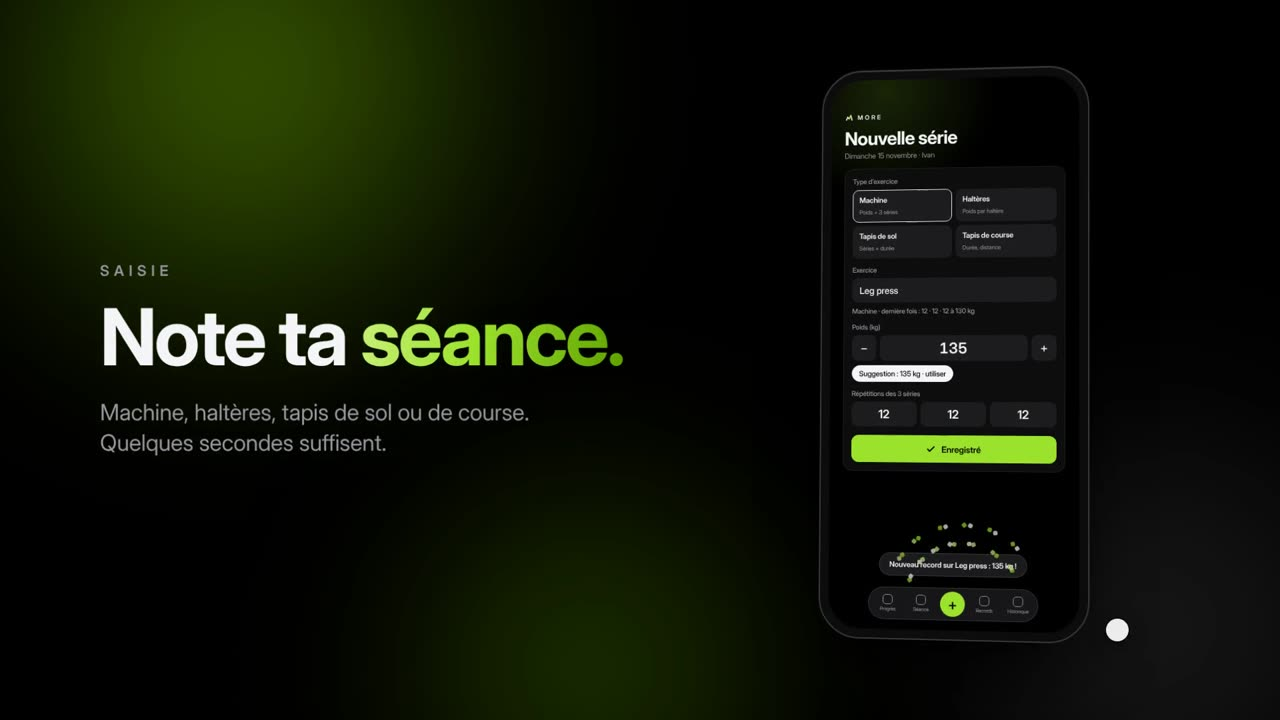
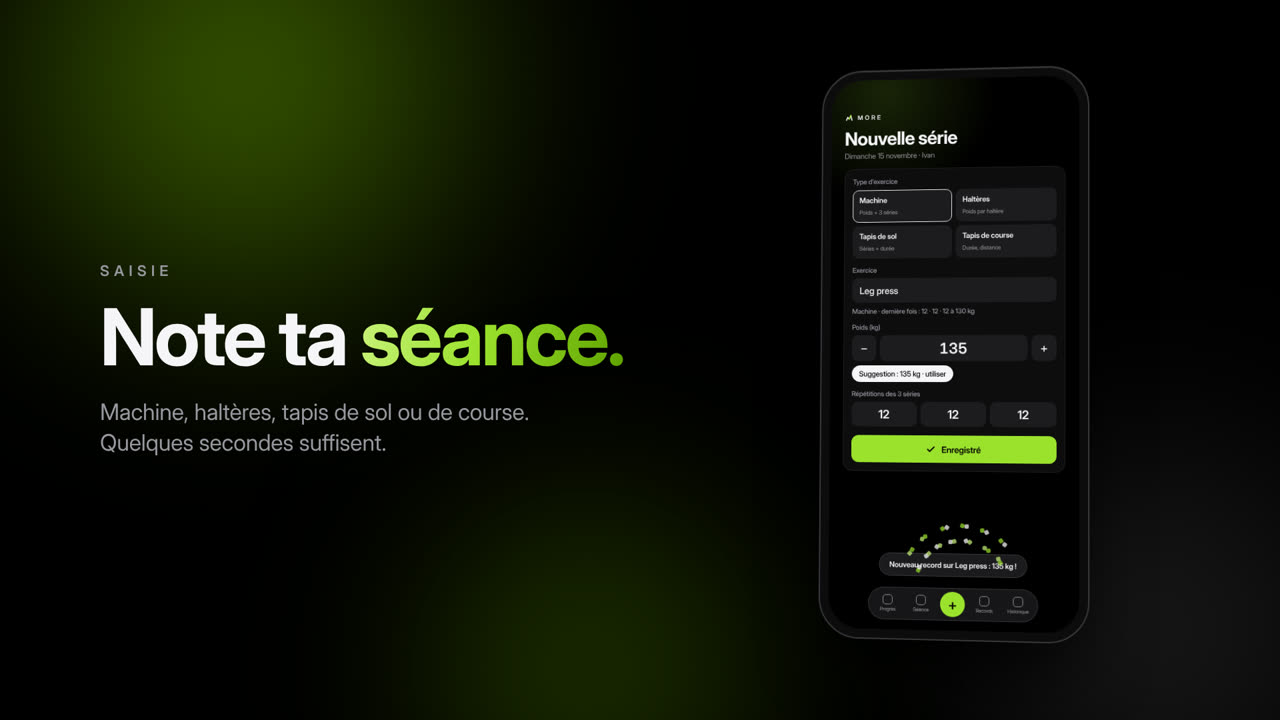
style(landing): barre flottante en verre, hero centré et animations au défilement

diff --git a/css/landing.css b/css/landing.css
@@ -1,4 +1,5 @@
-/* MORE : page de présentation. Mêmes jetons que l'app : noir, blanc, un seul accent vert. */
+/* MORE : page de présentation. Mêmes jetons que l'app : noir, blanc, un seul accent vert.
+   Le verre liquide est réservé à la barre flottante ; le contenu est posé directement sur le noir. */
 :root{
   --ink:#000; --surface:#0d0d0e; --surface-2:#1c1c1e;
   --line:rgba(255,255,255,.08); --line-2:rgba(255,255,255,.14);
@@ -6,79 +7,98 @@
   --font:-apple-system,BlinkMacSystemFont,"SF Pro Text","Helvetica Neue",Helvetica,Arial,sans-serif;
   --display:-apple-system,BlinkMacSystemFont,"SF Pro Display","Helvetica Neue",Helvetica,Arial,sans-serif;
   --spring:cubic-bezier(.22,1.2,.36,1);
+  --out:cubic-bezier(.16,1,.3,1);
   color-scheme:dark;
 }
 *{box-sizing:border-box}
 html{scroll-behavior:smooth}
 body{margin:0;background:var(--ink);color:var(--text);font-family:var(--font);font-size:17px;line-height:1.5;letter-spacing:-.01em;-webkit-font-smoothing:antialiased;overflow-x:hidden}
 a{color:inherit;text-decoration:none}
-:focus-visible{outline:2px solid var(--text);outline-offset:3px;border-radius:8px}
-.halo{position:fixed;inset:0;pointer-events:none;z-index:0;background:radial-gradient(70% 40% at 20% -8%,rgba(155,226,45,.14),transparent 65%)}
+:focus-visible{outline:2px solid var(--text);outline-offset:3px;border-radius:999px}
+.halo{position:fixed;inset:0;pointer-events:none;z-index:0;background:radial-gradient(60% 40% at 50% -10%,rgba(155,226,45,.16),transparent 65%)}
 main,.bar,.foot{position:relative;z-index:1}
 
-/* barre flottante : seul élément en verre */
-.bar{position:sticky;top:0;z-index:10;display:flex;align-items:center;justify-content:space-between;max-width:1120px;margin:0 auto;
-  padding:calc(env(safe-area-inset-top) + 12px) max(20px,env(safe-area-inset-right)) 12px max(20px,env(safe-area-inset-left))}
-.bar::before{content:"";position:absolute;inset:0;z-index:-1;background:rgba(0,0,0,.55);-webkit-backdrop-filter:blur(24px) saturate(180%);backdrop-filter:blur(24px) saturate(180%);border-bottom:1px solid var(--line)}
-.brand{display:flex;align-items:center;gap:10px;font-weight:600;font-size:14px;letter-spacing:.32em}
-.mark{width:22px;height:22px;fill:none;stroke:#fff;stroke-width:30;stroke-linecap:round;stroke-linejoin:round}
+/* barre flottante en verre liquide, détachée du haut */
+.bar{position:fixed;left:0;right:0;top:calc(env(safe-area-inset-top) + 14px);z-index:10;display:flex;justify-content:center;padding:0 16px;pointer-events:none}
+.pill{pointer-events:auto;display:flex;align-items:center;justify-content:space-between;gap:24px;width:100%;max-width:720px;
+  padding:7px 7px 7px 20px;border-radius:999px;
+  background:rgba(30,30,32,.55);-webkit-backdrop-filter:blur(30px) saturate(180%);backdrop-filter:blur(30px) saturate(180%);
+  border:1px solid var(--line-2);box-shadow:inset 0 1px 0 rgba(255,255,255,.12),0 20px 50px -20px rgba(0,0,0,.8);
+  transition:transform .6s var(--spring),max-width .6s var(--spring)}
+.bar.scrolled .pill{max-width:560px}
+.brand{display:flex;align-items:center;gap:10px;font-weight:600;font-size:13px;letter-spacing:.32em}
+.mark{width:20px;height:20px;fill:none;stroke:#fff;stroke-width:30;stroke-linecap:round;stroke-linejoin:round}
 .mark .g{stroke:var(--accent)}
 .mark.big{width:84px;height:84px}
 
 /* boutons */
-.btn{display:inline-flex;align-items:center;justify-content:center;min-height:52px;padding:0 26px;border-radius:999px;background:var(--text);color:var(--ink);font-weight:600;font-size:16px;transition:transform .35s var(--spring),opacity .2s}
-.btn:active{transform:scale(.97)}
-.btn-sm{min-height:40px;padding:0 18px;font-size:14.5px}
-.btn-ghost{background:transparent;color:var(--text);border:1px solid var(--line-2)}
+.btn{display:inline-flex;align-items:center;justify-content:center;min-height:52px;padding:0 28px;border-radius:999px;background:var(--text);color:var(--ink);font-weight:600;font-size:16px;transition:transform .35s var(--spring),background-color .2s}
+.btn:active{transform:scale(.96)}
+.btn-sm{min-height:38px;padding:0 18px;font-size:14px}
+.btn-ghost{background:rgba(255,255,255,.06);color:var(--text);border:1px solid var(--line-2)}
 .accent{color:var(--accent)}
 
-/* hero */
+/* hero centré */
 main{max-width:1120px;margin:0 auto;padding:0 max(20px,env(safe-area-inset-left))}
-.hero{padding:88px 0 56px;max-width:820px}
+.hero{display:flex;flex-direction:column;align-items:center;text-align:center;padding:180px 0 72px}
 .kicker{margin:0 0 18px;font-size:12px;font-weight:600;letter-spacing:.3em;color:var(--muted);text-transform:uppercase}
-h1{margin:0;font-family:var(--display);font-size:clamp(46px,9vw,96px);line-height:1;font-weight:700;letter-spacing:-.045em}
-.lead{margin:28px 0 0;max-width:560px;font-size:clamp(18px,2.2vw,21px);color:var(--muted)}
-.cta{display:flex;flex-wrap:wrap;gap:12px;margin-top:36px}
+h1{margin:0;font-family:var(--display);font-size:clamp(48px,9.5vw,112px);line-height:.98;font-weight:700;letter-spacing:-.05em}
+.lead{margin:28px auto 0;max-width:600px;font-size:clamp(18px,2.2vw,21px);color:var(--muted)}
+.cta{display:flex;flex-wrap:wrap;justify-content:center;gap:12px;margin-top:40px}
 
-/* vidéo : paysage sur grand écran, vertical sur téléphone */
-.video{padding:8px 0 40px}
-.frame{border-radius:28px;overflow:hidden;background:var(--surface);border:1px solid var(--line-2);box-shadow:0 40px 100px -40px rgba(155,226,45,.35)}
-.frame video{display:block;width:100%;height:auto;background:#000}
+/* vidéo : grandit en arrivant à l'écran (piloté par landing.js) */
+.video{padding:8px 0 80px}
+.frame{border-radius:32px;overflow:hidden;background:#000;box-shadow:0 60px 140px -50px rgba(155,226,45,.4),0 0 0 1px var(--line);
+  transform:scale(var(--vs,1));transform-origin:50% 0;will-change:transform}
+.frame video{display:block;width:100%;height:100%;background:#000}
 .frame.wide{aspect-ratio:16/9}
 .frame.tall{display:none;aspect-ratio:9/16;max-width:420px;margin:0 auto}
 @media (max-width:700px) and (orientation:portrait){ .frame.wide{display:none} .frame.tall{display:block} }
 
-/* fonctionnalités */
-.features{display:grid;gap:20px;padding:56px 0}
-.feat{display:grid;grid-template-columns:minmax(0,300px) 1fr;gap:48px;align-items:center;padding:36px;border-radius:28px;background:var(--surface);border:1px solid var(--line)}
-.feat:nth-child(even){grid-template-columns:1fr minmax(0,300px)}
-.feat:nth-child(even) img{order:2}
-.feat img{width:100%;height:auto;border-radius:22px;display:block}
-.feat h2{margin:0;font-family:var(--display);font-size:clamp(26px,3.4vw,38px);line-height:1.08;font-weight:700;letter-spacing:-.03em}
-.feat p:not(.kicker){margin:16px 0 0;color:var(--muted);max-width:460px}
+/* fonctionnalités : pas de cadres, le téléphone flotte sur le noir */
+.features{display:grid;gap:clamp(40px,8vw,120px);padding:40px 0 80px}
+.feat{display:grid;grid-template-columns:minmax(0,360px) minmax(0,440px);justify-content:center;gap:clamp(40px,8vw,120px);align-items:center}
+.feat:nth-child(even) .shot{order:2}
+.shot{position:relative}
+.shot::before{content:"";position:absolute;inset:18% 8% 8%;border-radius:50%;background:radial-gradient(closest-side,rgba(155,226,45,.22),transparent);filter:blur(30px);z-index:-1}
+.feat img{width:100%;height:auto;display:block;transform:translateY(var(--py,0px))}
+.feat h2{margin:0;font-family:var(--display);font-size:clamp(30px,3.8vw,46px);line-height:1.05;font-weight:700;letter-spacing:-.035em}
+.feat p:not(.kicker){margin:18px 0 0;color:var(--muted);font-size:18px}
 @media (max-width:760px){
-  .feat,.feat:nth-child(even){grid-template-columns:1fr;gap:28px;padding:24px}
-  .feat:nth-child(even) img{order:0}
-  .feat img{max-width:280px;margin:0 auto}
+  .feat{grid-template-columns:1fr;gap:20px;text-align:center}
+  .feat:nth-child(even) .shot{order:0}
+  .feat img{max-width:270px;margin:0 auto}
 }
 
-/* confidentialité */
-.privacy{display:flex;gap:22px;align-items:flex-start;padding:36px;border-radius:28px;border:1px solid var(--line);margin:8px 0 40px}
-.privacy svg{flex:none;width:30px;height:30px;fill:none;stroke:var(--accent);stroke-width:1.8;stroke-linecap:round;stroke-linejoin:round;margin-top:4px}
-.privacy h2{margin:0;font-size:22px;letter-spacing:-.02em}
-.privacy p{margin:8px 0 0;color:var(--muted);max-width:620px}
+/* confidentialité : simple ligne centrée */
+.privacy{display:flex;flex-direction:column;align-items:center;text-align:center;padding:40px 0 20px}
+.privacy svg{width:34px;height:34px;fill:none;stroke:var(--accent);stroke-width:1.8;stroke-linecap:round;stroke-linejoin:round;margin-bottom:18px}
+.privacy h2{margin:0;font-family:var(--display);font-size:clamp(28px,3.4vw,40px);letter-spacing:-.03em}
+.privacy p{margin:14px auto 0;color:var(--muted);max-width:560px;font-size:18px}
 
 /* fin */
-.end{display:flex;flex-direction:column;align-items:center;text-align:center;padding:72px 0 96px}
+.end{display:flex;flex-direction:column;align-items:center;text-align:center;padding:110px 0 120px}
 .word{margin:30px 0 0;font-size:34px;font-weight:600;letter-spacing:.42em;margin-right:-.42em}
 .tag{margin:14px 0 34px;font-size:22px;font-style:italic;font-weight:300}
 .foot{display:flex;flex-wrap:wrap;justify-content:space-between;gap:8px;max-width:1120px;margin:0 auto;
   padding:24px max(20px,env(safe-area-inset-right)) calc(env(safe-area-inset-bottom) + 28px) max(20px,env(safe-area-inset-left));
   border-top:1px solid var(--line);font-size:13px;color:var(--muted)}
 
-/* apparition douce au chargement */
-@keyframes rise{from{opacity:0;transform:translateY(24px);filter:blur(8px)}to{opacity:1;transform:none;filter:none}}
-.hero>*{animation:rise .8s cubic-bezier(.16,1,.3,1) both}
-.hero>:nth-child(2){animation-delay:.08s}.hero>:nth-child(3){animation-delay:.16s}.hero>:nth-child(4){animation-delay:.24s}
-.video{animation:rise 1s .3s cubic-bezier(.16,1,.3,1) both}
-@media (prefers-reduced-motion:reduce){ *{animation:none!important;transition:none!important} html{scroll-behavior:auto} }
+/* animations à la Apple : apparition au chargement, puis au défilement */
+@keyframes rise{from{opacity:0;transform:translateY(28px);filter:blur(10px)}to{opacity:1;transform:none;filter:none}}
+.hero>*{animation:rise 1s var(--out) both}
+.hero>:nth-child(2){animation-delay:.1s}.hero>:nth-child(3){animation-delay:.2s}.hero>:nth-child(4){animation-delay:.3s}
+.bar .pill{animation:rise .9s .1s var(--out) both}
+.js [data-reveal]{opacity:0;transform:translateY(60px);filter:blur(12px);transition:opacity 1.1s var(--out),transform 1.1s var(--out),filter 1.1s var(--out)}
+.js [data-reveal].in{opacity:1;transform:none;filter:none}
+.js .feat .shot{opacity:0;transform:scale(.88) translateY(40px);transition:opacity 1.2s var(--out),transform 1.2s var(--out)}
+.js .feat.in .shot{opacity:1;transform:none}
+.js .feat>div:last-child>*{opacity:0;transform:translateY(24px);transition:opacity .9s var(--out),transform .9s var(--out)}
+.js .feat.in>div:last-child>*{opacity:1;transform:none}
+.js .feat.in>div:last-child>:nth-child(2){transition-delay:.12s}
+.js .feat.in>div:last-child>:nth-child(3){transition-delay:.24s}
+@media (prefers-reduced-motion:reduce){
+  *{animation:none!important;transition:none!important} html{scroll-behavior:auto}
+  .js [data-reveal],.js .feat .shot,.js .feat>div:last-child>*{opacity:1;transform:none;filter:none}
+  .frame{transform:none}
+}

diff --git a/index.html b/index.html
@@ -15,19 +15,19 @@
 <link rel="manifest" href="manifest.webmanifest">
 <link rel="apple-touch-icon" href="assets/icon-180.png">
 <link rel="icon" type="image/png" href="assets/favicon-32.png">
-<script src="js/landing.js?v=9918025c7b"></script>
-<link rel="stylesheet" href="css/landing.css?v=afe1876619">
+<script src="js/landing.js?v=8affff5971"></script>
+<link rel="stylesheet" href="css/landing.css?v=c1654712ce">
 </head>
 <body>
 <div class="halo" aria-hidden="true"></div>
 
-<header class="bar">
+<header class="bar"><nav class="pill" aria-label="Navigation">
   <a class="brand" href="./" aria-label="MORE, accueil">
     <svg class="mark" viewBox="0 0 256 256" aria-hidden="true"><path d="M46 204 L84 112 L124 170 L174 60 L212 204"/><path class="g" d="M124 170 L174 60"/></svg>
     <span>MORE</span>
   </a>
   <a class="btn btn-sm" href="app.html">Se connecter</a>
-</header>
+</nav></header>
 
 <main>
   <section class="hero">
@@ -36,11 +36,11 @@
     <p class="lead">Le carnet de muscu qui retient tes charges, te montre ce qui progresse et te dit quoi soulever la prochaine fois.</p>
     <div class="cta">
       <a class="btn" href="app.html">Ouvrir MORE</a>
-      <a class="btn btn-ghost" href="#video">Voir la vidéo</a>
+      <a class="btn btn-ghost" href="#video">Découvrir</a>
     </div>
   </section>
 
-  <section class="video" id="video" aria-label="Vidéo de présentation">
+  <section class="video" id="video" data-reveal aria-label="Vidéo de présentation">
     <div class="frame wide">
       <video controls playsinline preload="none" poster="assets/video/poster-16x9.jpg" aria-label="Présentation de MORE, format paysage">
         <source src="assets/video/more-16x9.mp4" type="video/mp4">
@@ -54,32 +54,32 @@
   </section>
 
   <section class="features" aria-label="Fonctionnalités">
-    <article class="feat">
-      <img src="assets/video/ecran-saisie.jpg" alt="Écran de saisie d'une série : Leg press, 135 kg, 3 séries de 12" width="540" height="1035" loading="lazy">
+    <article class="feat" data-reveal>
+      <div class="shot"><img src="assets/video/ecran-saisie.webp" alt="Écran de saisie d'une série : Leg press, 135 kg, 3 séries de 12" width="600" height="1170" loading="lazy"></div>
       <div>
         <p class="kicker">Saisie</p>
         <h2>Note ta séance en quelques secondes.</h2>
         <p>Machine, haltères, tapis de sol ou de course. MORE se souvient de la dernière fois et pré-remplit tout.</p>
       </div>
     </article>
-    <article class="feat">
-      <img src="assets/video/ecran-progression.jpg" alt="Écran de progression : exercices en progrès et stables, avec leurs courbes" width="540" height="1035" loading="lazy">
+    <article class="feat" data-reveal>
+      <div class="shot"><img src="assets/video/ecran-progression.webp" alt="Écran de progression : exercices en progrès et stables, avec leurs courbes" width="600" height="1170" loading="lazy"></div>
       <div>
         <p class="kicker">Progression</p>
         <h2>Vois ce qui monte, ce qui stagne.</h2>
         <p>Chaque exercice a sa courbe. Les records sont repérés tout seuls, les exercices oubliés aussi.</p>
       </div>
     </article>
-    <article class="feat">
-      <img src="assets/video/ecran-suggestion.jpg" alt="Fiche Leg press : courbe de 100 à 135 kg et suggestion de 140 kg" width="540" height="1035" loading="lazy">
+    <article class="feat" data-reveal>
+      <div class="shot"><img src="assets/video/ecran-suggestion.webp" alt="Fiche Leg press : courbe de 100 à 135 kg et suggestion de 140 kg" width="600" height="1170" loading="lazy"></div>
       <div>
         <p class="kicker">Surcharge progressive</p>
         <h2>Sache quoi soulever la prochaine fois.</h2>
         <p>Tu as tenu toutes tes séries ? MORE te propose la charge suivante. Sinon, il te dit de consolider.</p>
       </div>
     </article>
-    <article class="feat">
-      <img src="assets/video/ecran-seance.jpg" alt="Séance guidée : exercices cochés et minuteur de repos" width="540" height="1035" loading="lazy">
+    <article class="feat" data-reveal>
+      <div class="shot"><img src="assets/video/ecran-seance.webp" alt="Séance guidée : exercices cochés et minuteur de repos" width="600" height="1170" loading="lazy"></div>
       <div>
         <p class="kicker">Séance guidée</p>
         <h2>Tes programmes, prêts à dérouler.</h2>
@@ -88,7 +88,7 @@
     </article>
   </section>
 
-  <section class="privacy">
+  <section class="privacy" data-reveal>
     <svg viewBox="0 0 24 24" aria-hidden="true"><rect x="5" y="11" width="14" height="10" rx="2.5"/><path d="M8 11V8a4 4 0 0 1 8 0v3"/></svg>
     <div>
       <h2>Tes données restent à toi.</h2>
@@ -96,7 +96,7 @@
     </div>
   </section>
 
-  <section class="end">
+  <section class="end" data-reveal>
     <svg class="mark big" viewBox="0 0 256 256" aria-hidden="true"><path d="M46 204 L84 112 L124 170 L174 60 L212 204"/><path class="g" d="M124 170 L174 60"/></svg>
     <p class="word">MORE</p>
     <p class="tag accent">Uplift yourself.</p>

diff --git a/js/landing.js b/js/landing.js
@@ -1,7 +1,44 @@
 /* MORE : page de présentation.
-   Ouverte depuis l'icône de l'écran d'accueil (mode application), elle renvoie directement vers l'app. */
+   - Ouverte depuis l'icône de l'écran d'accueil (mode application), elle renvoie directement vers l'app.
+   - Apparitions au défilement, vidéo qui grandit en entrant à l'écran, léger parallaxe des téléphones. */
 (function(){
   "use strict";
   var standalone = (window.matchMedia && window.matchMedia("(display-mode: standalone)").matches) || window.navigator.standalone === true;
-  if (standalone) window.location.replace("app.html");
+  if (standalone){ window.location.replace("app.html"); return; }
+
+  var reduce = window.matchMedia && window.matchMedia("(prefers-reduced-motion: reduce)").matches;
+  if (!reduce && "IntersectionObserver" in window) document.documentElement.classList.add("js");
+
+  document.addEventListener("DOMContentLoaded", function(){
+    var bar = document.querySelector(".bar"), frames = document.querySelectorAll(".frame"), shots = document.querySelectorAll(".feat img");
+
+    if (!reduce && "IntersectionObserver" in window){
+      var io = new IntersectionObserver(function(list){
+        list.forEach(function(e){ if (e.isIntersecting){ e.target.classList.add("in"); io.unobserve(e.target); } });
+      }, { rootMargin: "0px 0px -12% 0px", threshold: 0.12 });
+      document.querySelectorAll("[data-reveal]").forEach(function(el){ io.observe(el); });
+    }
+
+    var ticking = false;
+    function frame(){
+      ticking = false;
+      var vh = window.innerHeight;
+      if (bar) bar.classList.toggle("scrolled", window.scrollY > 40);
+      if (reduce) return;
+      /* la vidéo passe de 88 % à 100 % de sa taille en remontant vers le haut de l'écran */
+      frames.forEach(function(f){
+        var r = f.getBoundingClientRect(), k = Math.min(1, Math.max(0, (vh - r.top) / (vh * 0.75)));
+        f.style.setProperty("--vs", (0.88 + 0.12 * (1 - Math.pow(1 - k, 3))).toFixed(4));
+      });
+      /* les téléphones glissent légèrement moins vite que la page */
+      shots.forEach(function(img){
+        var r = img.getBoundingClientRect(), c = (r.top + r.height / 2 - vh / 2) / vh;
+        img.style.setProperty("--py", (c * -40).toFixed(1) + "px");
+      });
+    }
+    function onScroll(){ if (!ticking){ ticking = true; window.requestAnimationFrame(frame); } }
+    window.addEventListener("scroll", onScroll, { passive: true });
+    window.addEventListener("resize", onScroll);
+    frame();
+  });
 })();
